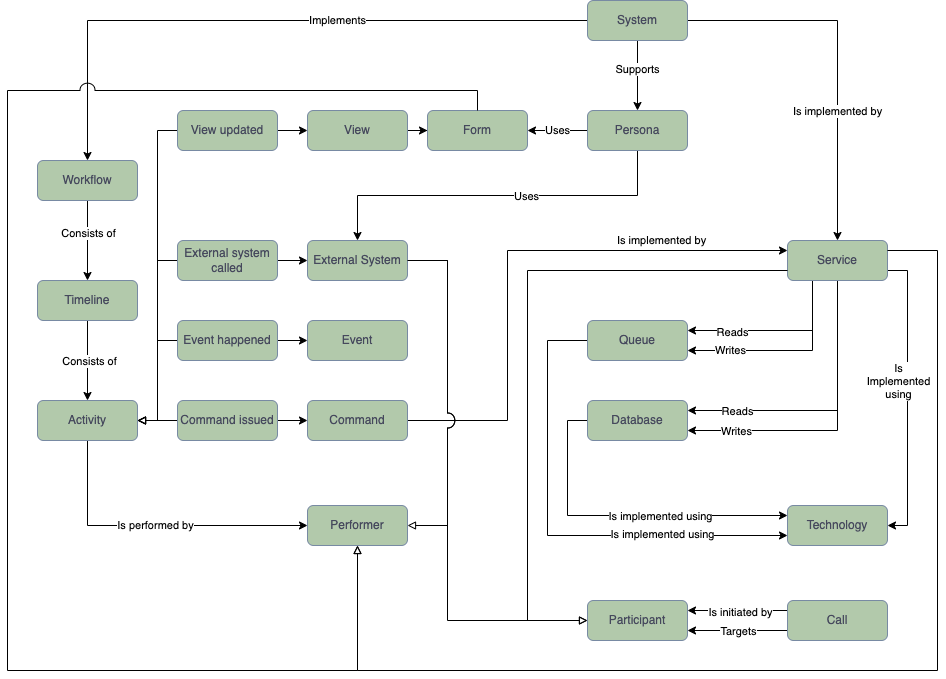
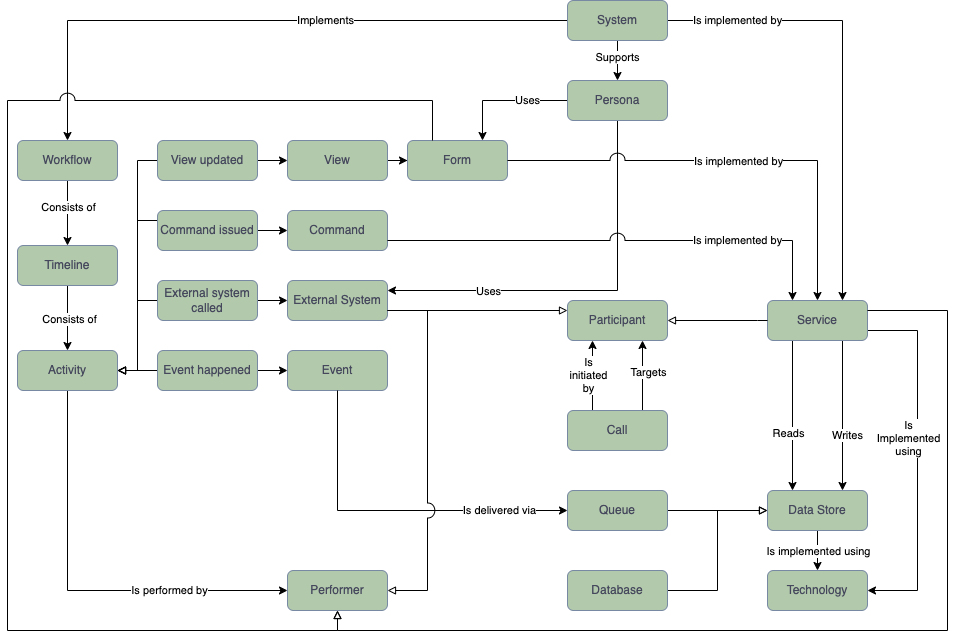
Improve model

diff --git a/model/README.md b/model/README.md
@@ -50,6 +50,7 @@ The concepts in such a model are:
 - **Call** A machine-to-machine communication between two _participants_.
 - **Command** A request to change the _system_ in some way.
   A command is issued by a _service_, _form_, or _external system_ and handled by a _service_.
+- **Data Store** Something that can hold data: either a _database_ or a _queue_.
 - **Database** A part of a _system_ that stores data for one or more _services_.
 - **Event** A piece of data sent from one _service_ to another, which signals to the recipient that something
   interesting has happened.
@@ -70,7 +71,7 @@ The concepts in such a model are:
 - **Service** A part of a _system_ that is deployed as a single unit, independently of other services.
   In a microservice architecture, this would be a microservice, but the concept also applies to Service Oriented
   Architectures.
-  Either way, a service is stateless.
+  Either way, a service is stateless; it stores its state in a _Data Store_
 - **System** A software application that helps one or more _personas_ perform their duties and is the focus of the
   diagram.
 - **Technology** The languages, frameworks, tools, platforms, etc. used to implement a part of a _system_.
